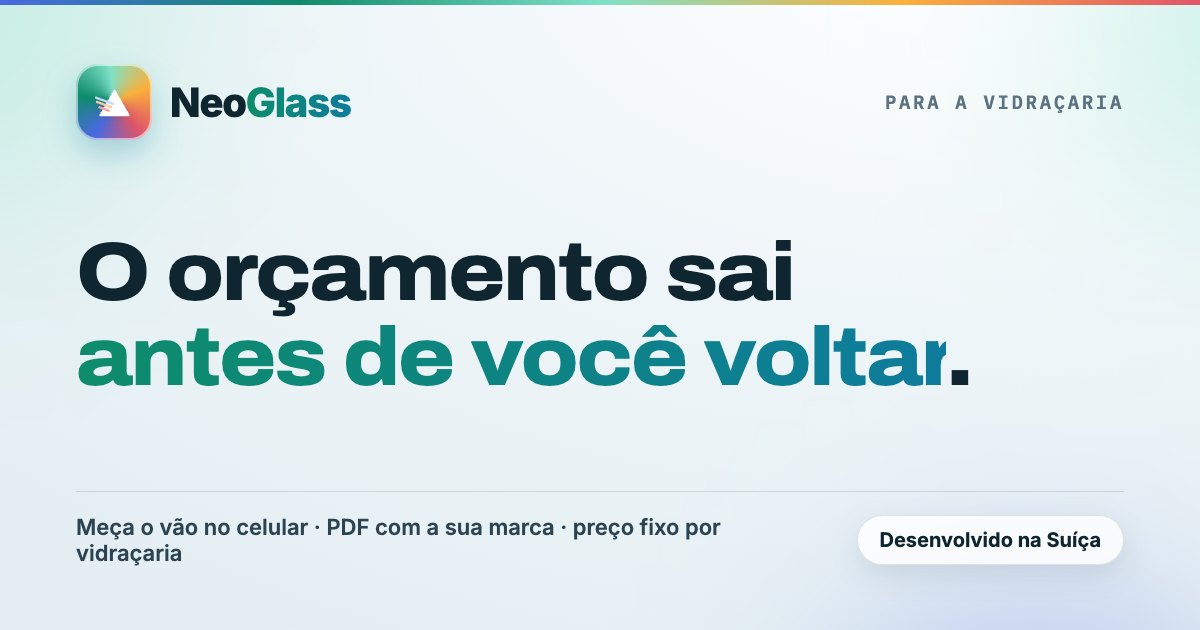
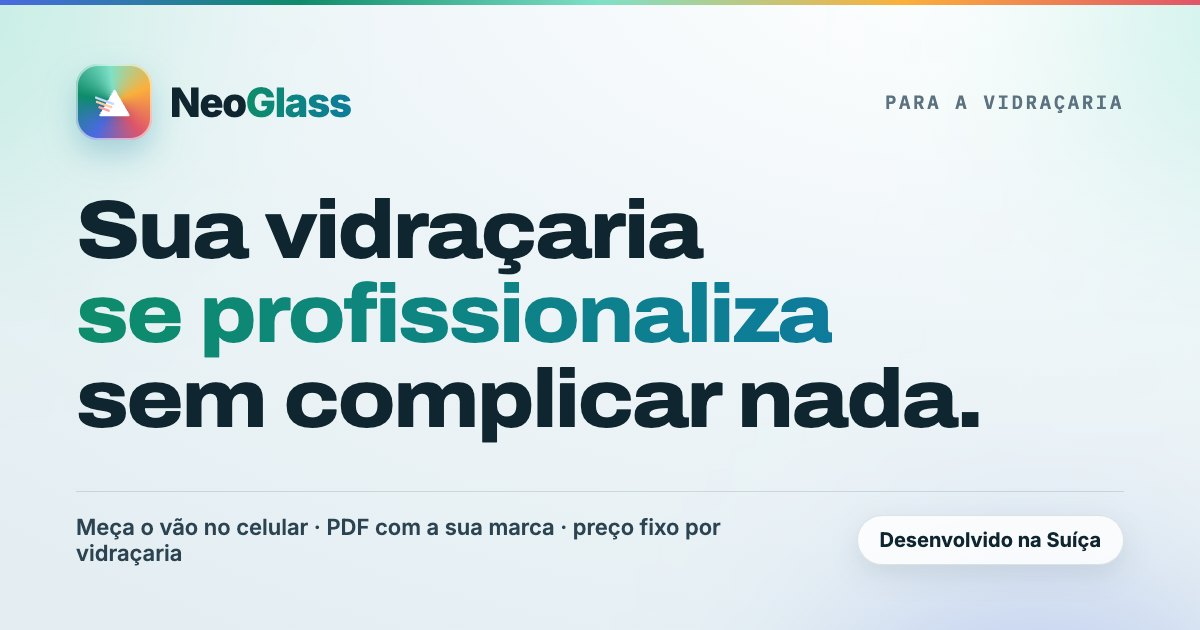
Update glass shop share image

Changed region(s): [[0.0617, 0.3016, 0.8325, 0.7238]]

diff --git a/src/lib/paginasSeo.js b/src/lib/paginasSeo.js
@@ -123,7 +123,9 @@ export const arquivoDe = (id, idioma) => {
  */
 const COM_IMAGEM = ['industria', 'vidracaria', 'plataforma', 'partner']
 export const imagemDe = (id) =>
-  COM_IMAGEM.includes(id === 'primeiro' ? 'vidracaria' : id) ? `${SITE}/og-${id === 'primeiro' ? 'vidracaria' : id}.jpg` : `${SITE}/og.jpg`
+  COM_IMAGEM.includes(id === 'primeiro' ? 'vidracaria' : id)
+    ? `${SITE}/og-${id === 'primeiro' ? 'vidracaria' : id}.jpg${['vidracaria', 'primeiro'].includes(id) ? '?v=2' : ''}`
+    : `${SITE}/og.jpg`
 
 /** O preço declarado no dado estruturado daquele idioma. */
 export const ofertaDe = (idioma) => {
